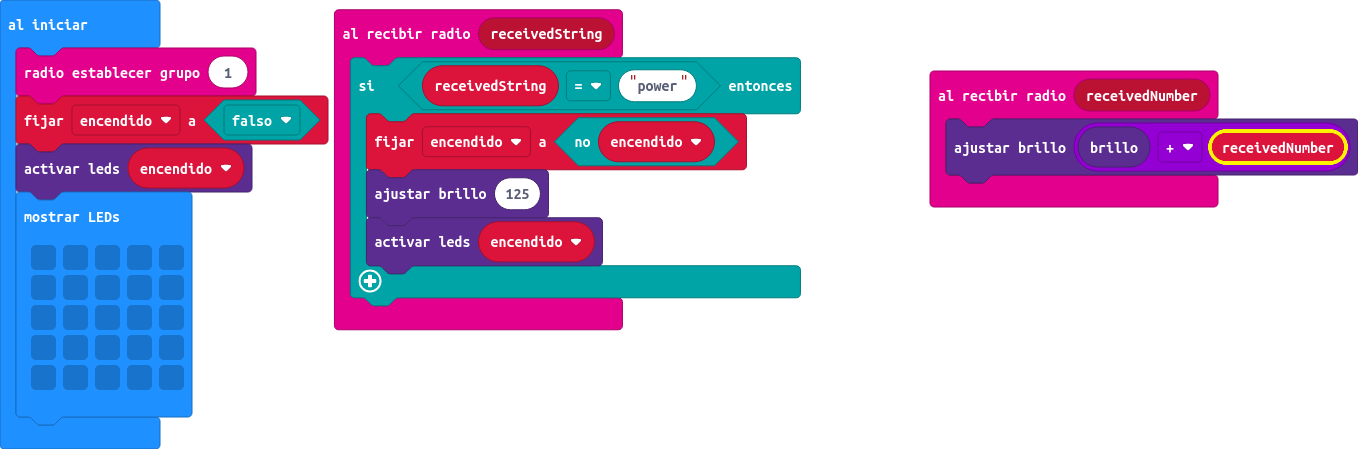
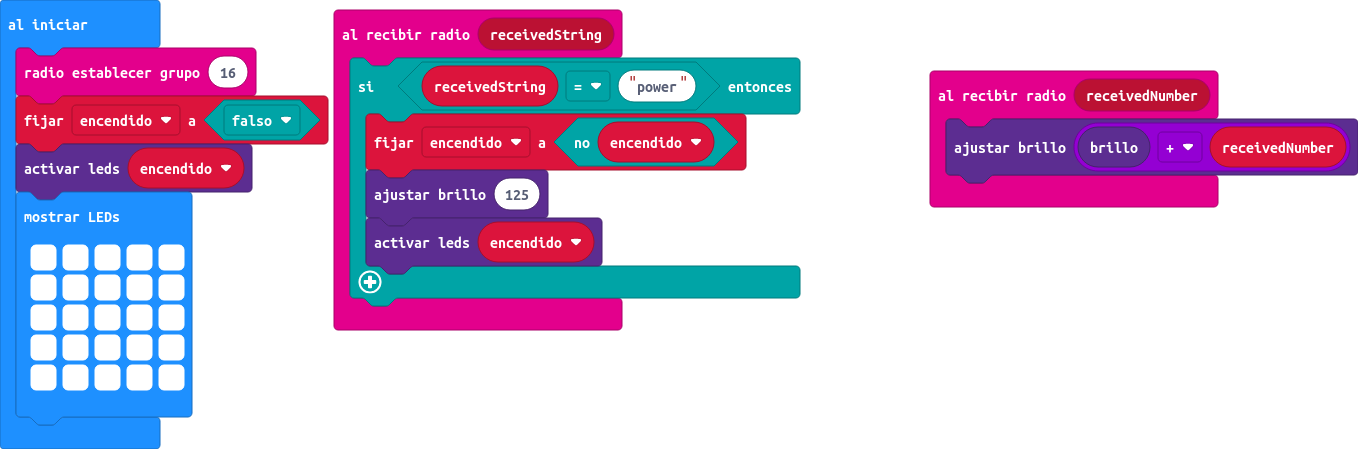
Actualizar main.blocks, main.ts

diff --git a/main.ts b/main.ts
@@ -9,13 +9,13 @@ radio.onReceivedString(function (receivedString) {
     }
 })
 let encendido = false
-radio.setGroup(1)
+radio.setGroup(16)
 encendido = false
 led.enable(encendido)
 basic.showLeds(`
-    . . . . .
-    . . . . .
-    . . . . .
-    . . . . .
-    . . . . .
+    # # # # #
+    # # # # #
+    # # # # #
+    # # # # #
+    # # # # #
     `)
